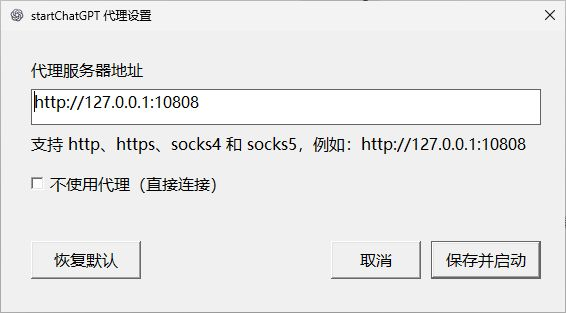
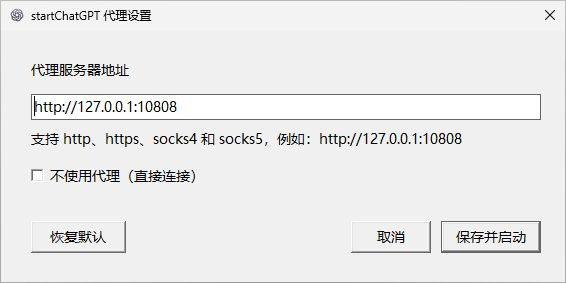
Refine proxy settings layout

diff --git a/src/settings.rs b/src/settings.rs
@@ -19,7 +19,7 @@ type Uint = u32;
 type Wparam = usize;
 
 const WINDOW_WIDTH: i32 = 580;
-const WINDOW_HEIGHT: i32 = 320;
+const WINDOW_HEIGHT: i32 = 290;
 const WM_DESTROY: Uint = 0x0002;
 const WM_CLOSE: Uint = 0x0010;
 const WM_SETFONT: Uint = 0x0030;
@@ -224,7 +224,7 @@ pub fn show(current: &ProxySetting) -> Result<Option<ProxySetting>, String> {
         SetWindowLongPtrW(hwnd, GWLP_USERDATA, (&mut state as *mut State) as isize);
 
         let font = CreateFontW(
-            -16,
+            -14,
             0,
             0,
             0,
@@ -259,9 +259,9 @@ pub fn show(current: &ProxySetting) -> Result<Option<ProxySetting>, String> {
             "EDIT",
             current.proxy_url().unwrap_or(DEFAULT_PROXY),
             30,
-            58,
+            63,
             510,
-            36,
+            26,
             WS_BORDER | WS_TABSTOP | ES_AUTOHSCROLL,
             0,
             font,
@@ -272,7 +272,7 @@ pub fn show(current: &ProxySetting) -> Result<Option<ProxySetting>, String> {
             "STATIC",
             "支持 http、https、socks4 和 socks5，例如：http://127.0.0.1:10808",
             30,
-            102,
+            97,
             510,
             24,
             0,
@@ -285,7 +285,7 @@ pub fn show(current: &ProxySetting) -> Result<Option<ProxySetting>, String> {
             "BUTTON",
             "不使用代理（直接连接）",
             30,
-            138,
+            130,
             250,
             30,
             WS_TABSTOP | BS_AUTOCHECKBOX,
@@ -298,9 +298,9 @@ pub fn show(current: &ProxySetting) -> Result<Option<ProxySetting>, String> {
             "BUTTON",
             "恢复默认",
             30,
-            210,
-            110,
-            38,
+            190,
+            95,
+            32,
             WS_TABSTOP | BS_PUSHBUTTON,
             ID_DEFAULT,
             font,
@@ -310,10 +310,10 @@ pub fn show(current: &ProxySetting) -> Result<Option<ProxySetting>, String> {
             instance,
             "BUTTON",
             "取消",
-            330,
-            210,
-            90,
-            38,
+            350,
+            190,
+            80,
+            32,
             WS_TABSTOP | BS_PUSHBUTTON,
             ID_CANCEL,
             font,
@@ -323,10 +323,10 @@ pub fn show(current: &ProxySetting) -> Result<Option<ProxySetting>, String> {
             instance,
             "BUTTON",
             "保存并启动",
-            430,
-            210,
-            110,
-            38,
+            440,
+            190,
+            100,
+            32,
             WS_TABSTOP | BS_DEFPUSHBUTTON,
             ID_SAVE,
             font,
